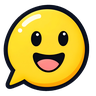
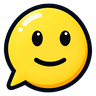
feat: use the smiling face for the off state

diff --git a/lib/client.js b/lib/client.js
@@ -49,6 +49,9 @@ function writeHostState(sessionId, enabled) {
[2 lines of base64/hex data omitted]
 
[2 lines of base64/hex data omitted]
+
 function Glyph(props) {
   return React.createElement('img', {
     src: props.on ? ICON_ON : ICON_OFF,

diff --git a/CHANGELOG.md b/CHANGELOG.md
@@ -1,3 +1,7 @@
+# 0.1.3
+
+- 关闭态图标换成微笑版本；插件图标同步更新。
+
 # 0.1.2
 
 - 输入框按钮改用聊天气泡笑脸图：开启时带声波，关闭时用插件图标本体。
